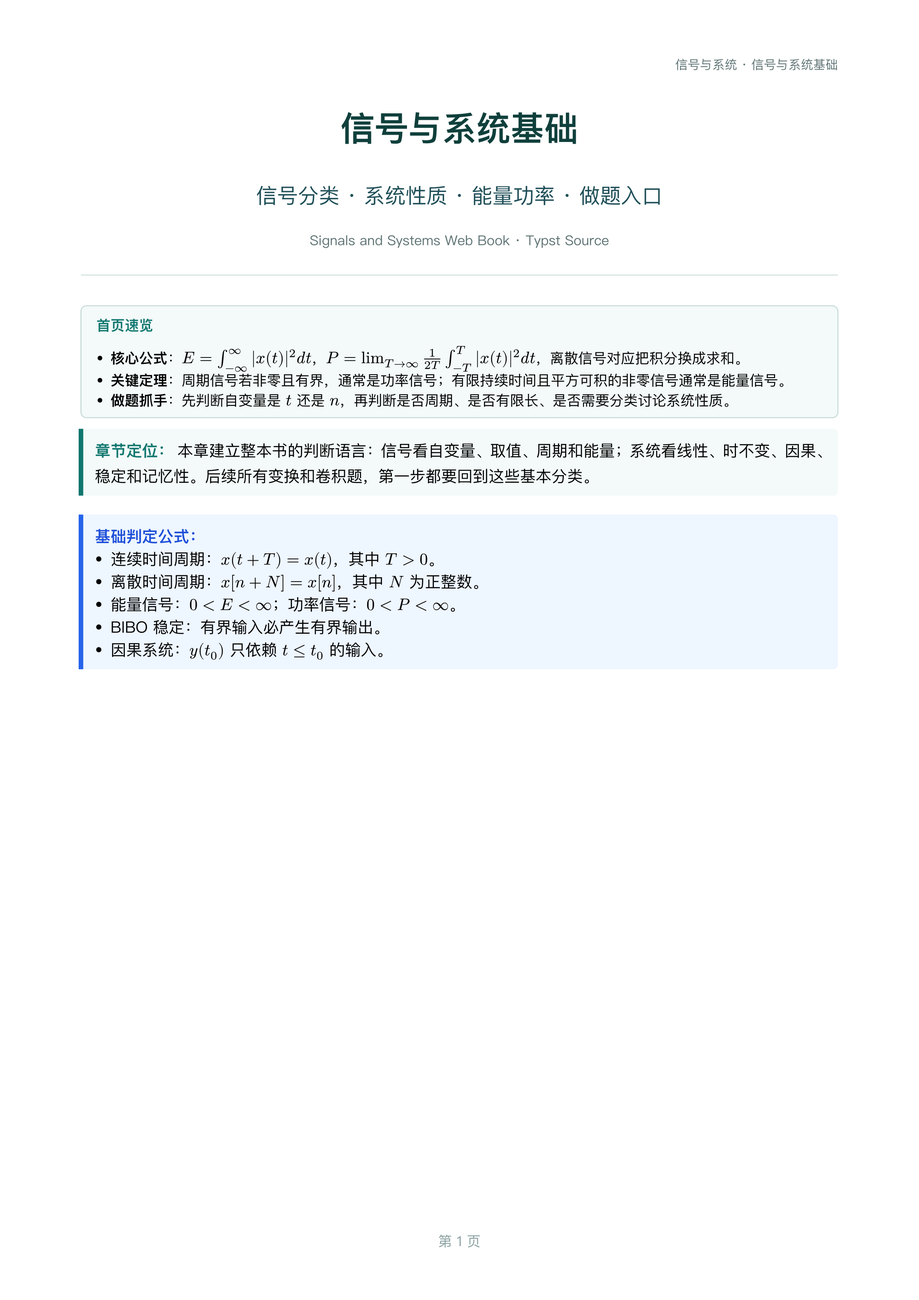
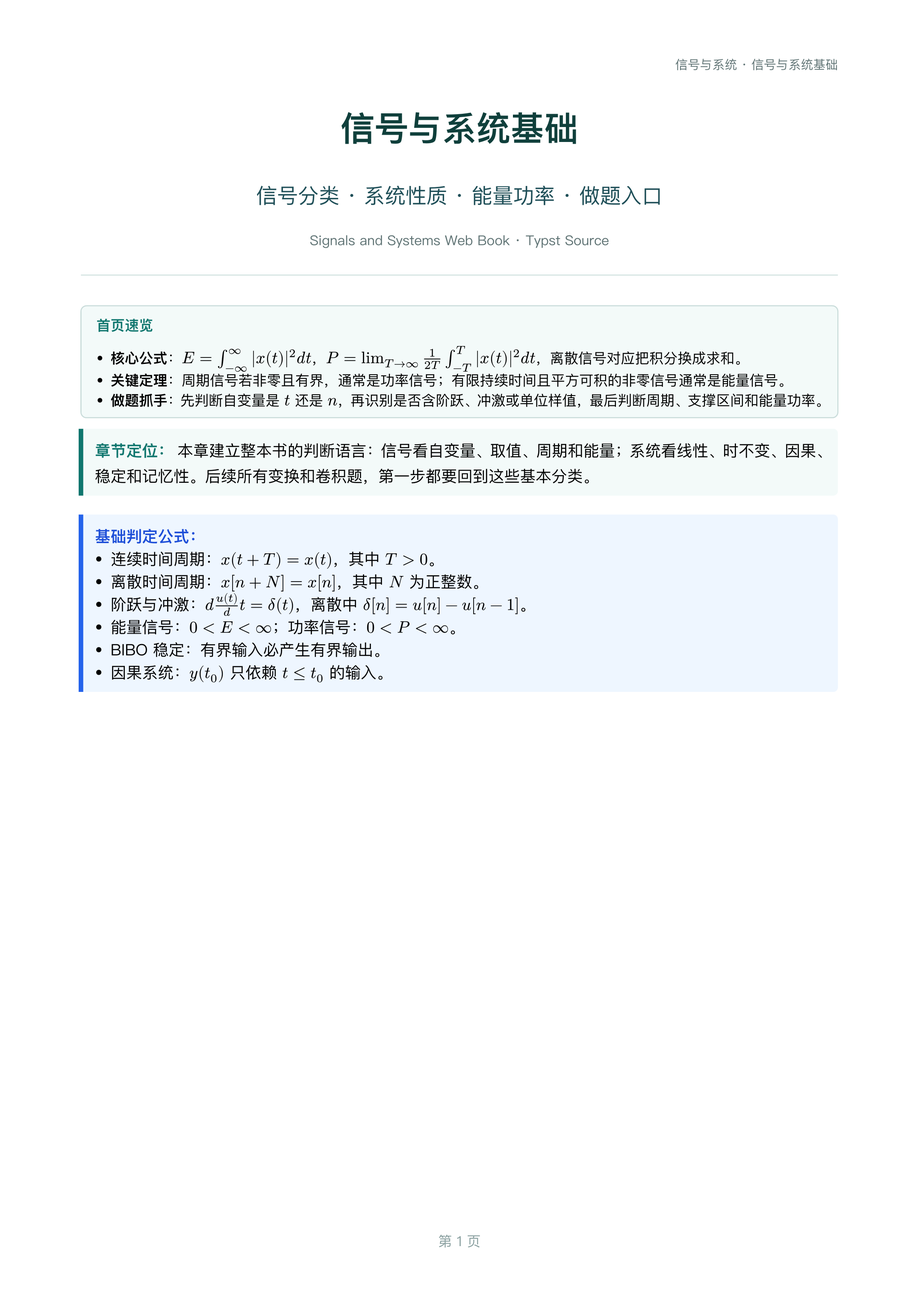
Add step and impulse signal basics

diff --git a/ebook/data.js b/ebook/data.js
@@ -2,10 +2,10 @@
 window.BOOK_MANIFEST = {
   "title": "信号与系统电子书",
   "subtitle": "时域分析 · 频域分析 · 复频域方法 · 典型题型",
-  "generatedAt": "2026-08-08T16:06:19+08:00",
+  "generatedAt": "2026-08-08T16:29:17+08:00",
   "stats": {
     "documents": 12,
-    "pages": 67,
+    "pages": 68,
     "renderDpi": 260,
     "pageRenderer": "typst-direct-webp",
     "pageImageExtension": "webp",
@@ -27,7 +27,7 @@ window.BOOK_MANIFEST = {
           "sourcePath": "typst/Signals and Systems Basics (信号与系统基础).typ",
           "pageImageBase": "./rendered-pages/doc-0541d6dc078b/page-",
           "pageImageExtension": "webp",
-          "pageCount": 8,
+          "pageCount": 9,
           "sections": [
             {
               "id": "doc-0541d6dc078b-s1",
@@ -38,19 +38,19 @@ window.BOOK_MANIFEST = {
             {
               "id": "doc-0541d6dc078b-s2",
               "title": "二、系统性质五连问",
-              "page": 6,
+              "page": 7,
               "level": 1
             },
             {
               "id": "doc-0541d6dc078b-s3",
               "title": "三、能量信号与功率信号",
-              "page": 7,
+              "page": 8,
               "level": 1
             },
             {
               "id": "doc-0541d6dc078b-s4",
               "title": "四、典型例题与经验",
-              "page": 8,
+              "page": 9,
               "level": 1
             }
           ]
@@ -508,7 +508,7 @@ window.BOOK_MANIFEST = {
       "sourcePath": "typst/Signals and Systems Basics (信号与系统基础).typ",
       "pageImageBase": "./rendered-pages/doc-0541d6dc078b/page-",
       "pageImageExtension": "webp",
-      "pageCount": 8,
+      "pageCount": 9,
       "sections": [
         {
           "id": "doc-0541d6dc078b-s1",
@@ -519,19 +519,19 @@ window.BOOK_MANIFEST = {
         {
           "id": "doc-0541d6dc078b-s2",
           "title": "二、系统性质五连问",
-          "page": 6,
+          "page": 7,
           "level": 1
         },
         {
           "id": "doc-0541d6dc078b-s3",
           "title": "三、能量信号与功率信号",
-          "page": 7,
+          "page": 8,
           "level": 1
         },
         {
           "id": "doc-0541d6dc078b-s4",
           "title": "四、典型例题与经验",
-          "page": 8,
+          "page": 9,
           "level": 1
         }
       ]
@@ -966,17 +966,7 @@ window.SEARCH_INDEX = [
     "page": 2,
     "heading": "信号与系统基础",
     "snippet": "一、信号的基本分类 信号是随一个或多个自变量变化的函数。本书主要处理一维信号：连续时间信号 x t 与离散时间信号 x n 。做题时不要只背名称，而要把每个分类放到“定义、性质、图像表达”三个层面一起判断。 columns: 1.2fr, 1.65fr, 2.25fr , align: center, left, left , strok...",
-    "text": "Signals and Systems Basics (信号与系统基础) Signals and Systems Basics 信号与系统基础 基础与时域 信号与系统基础 一、信号的基本分类 信号是随一个或多个自变量变化的函数。本书主要处理一维信号：连续时间信号 x t 与离散时间信号 x n 。做题时不要只背名称，而要把每个分类放到“定义、性质、图像表达”三个层面一起判断。 columns: 1.2fr, 1.65fr, 2.25fr , align: center, left, left , stroke: 0.5pt + rgb , fill: x, y if y 0 rgb else if calc.rem y, 2 0 rgb , 分类维度 , 包含类型 , 先问什么 , 自变量 , 连续时间信号、离散时间信号 , 横轴是连续的 t ，还是只在整数 n 上取值？ , 幅值 , 模拟信号、数字信号 , 纵轴取值是否连续？是否经过量化或编码？ , 确定性 , 确定信号、随机信号 , 给定时刻的取值能否由明确函数唯一确定？ , 取值形式 , 实信号、复信号 , 信号值是实数，还是含幅度和相位的复数？ , 对称性 , 偶信号、奇信号、一般信号 , 关于纵轴镜像是否不变，关于原点旋转是否变号？ , 重复性 , 周期信号、非周期信号 , 能否找到正周期 T 或正整数周期 N ？ , 持续范围 , 时限信号、右边信号、左边信号、双边信号 , 信号在哪些时间区间非零？ , 能量功率 , 能量信号、功率信号、二者都不是 , 平方积分或平方求和是否有限？平均功率是否有限非零？ , 什么时候用 分类题先按维度问问题：横轴、纵轴、确定性、取值、对称性、周期性、支撑区间、能量功率。题目一出现 x n 、 h n 、 y n ，优先使用序列方法；出现 x t 、 h t 、 y t ，优先使用连续时间方法。不要把连续卷积积分和离散卷积和混用。 连续时间信号与离散时间信号 连续时间信号定义在连续自变量上，记为 x t ，其中 t 可以取某个区间内的任意实数。它的图像通常画成一条连续横轴上的曲线，常见例子有 sin omega t 、 e^ -a t u t 、矩形脉冲等。连续时间信号常与微分方程、连续卷积积分、傅里叶变换和拉普拉斯变换配套。 离散时间信号只在整数序号上定义，记为 x n ，其中 n in ZZ 。它的图像不能画成连续曲线，而应画成“茎状图”：每个整数 n 对应一根竖线或一个采样点。常见例子有 a^n u n 、 delta n 、 cos Omega n 。离散时间信号常与差分方程、序列卷积和、Z 变换配套。 columns: 1fr, 1.45fr, 1.7fr, 2fr , align: center, left, left, left , stroke: 0.5pt + rgb , fill: x, y if y 0 rgb else if calc.rem y, 2 0 rgb , 类型 , 严格定义 , 主要性质 , 图像表达 , 连续时间 , 对每个 t in RR 或某连续区间有取值 x t 。 , 可讨论连续性、导数、积分和微分方程；冲激 delta t 是广义函数，不是普通函数。 , 横轴标 t ，通常用平滑曲线、分段曲线、脉冲箭头或阶跃跳变表示。 , 离散时间 , 只在整数 n 上有取值 x n ，相邻样本之间不定义。 , 可讨论序列移位、差分、求和和递推；周期必须是正整数。 , 横轴标 n ，用茎状图或离散圆点表示，不能把点直接连成连续物理曲线。 , 离散时间图像中的相邻点之间没有默认取值。把 x n 画成平滑曲线，往往会误导卷积、周期和 Z 变换判断。 模拟信号与数字信号 模拟信号和数字信号描述的是幅值取值方式，不是单纯描述横轴。模拟信号的幅值在连续集合中取值，图像纵轴可以连续变化；数字信号的幅值被量化到有限或可数集合中，常由二进制码表示。 columns: 1fr, 1.55fr, 1.75fr, 2fr , align: center, left, left, left , stroke: 0.5pt + rgb , fill: x, y if y 0 rgb else if calc.rem y, 2 0 rgb , 类型 , 定义 , 性质 , 图像表达 , 模拟信号 , 幅值连续，可在某一区间内取无限多个值。 , 常用于物理量建模，如电压、声压、位移；抗噪能力依赖后续处理。 , 纵轴连续变化，图中曲线高度不被固定档位限制。 , 数字信号 , 幅值离散，通常由量化级和编码字表示。 , 便于存储、传输和计算；会引入量化误差。 , 图上表现为横轴离散、纵轴也落在若干固定电平上，常画成阶梯或量化样本。 , 判断抓手 采样让时间离散化，量化让幅值离散化，编码把量化值写成码字。连续/离散看横轴，模拟/数字看纵轴。 确定信号与随机信号 确定信号在任一给定时刻的取值由明确表达式或规则唯一确定，例如 x t e^ -t u t 。随机信号的取值含随机性，通常记为随机过程 X t 或 X n ，需要用均值、方差、自相关函数和概率分布描述。 columns: 1fr, 1.7fr, 1.7fr, 1.9fr , align: center, left, left, left , stroke: 0.5pt + rgb , fill: x, y if y 0 rgb else if calc.rem y, 2 0 rgb , 类型 , 定义 , 性质 , 图像表达 , 确定信号 , 函数式、波形或序列规则已完全给定。 , 重复观察得到同一波形；可直接计算变换、卷积和能量。 , 一张图就能表示完整信号，例如指数衰减曲线或固定序列。 , 随机信号 , 每个时刻的取值是随机变量，整体是一族样本函数。 , 单条波形不足以描述全部规律；常看 E X t 、 R X tau 等统计量。 , 图像通常画多条可能样本轨道，或画均值曲线加方差范围。 , 随机信号不能只靠一条样本波形下结论。题目若出现“随机过程、噪声、均值、自相关、功率谱密度”，就要转入统计描述。 周期信号与非周期信号 连续时间周期信号满足 x t+T x t ，其中 T 0 ；离散时间周期信号满足 x n+N x n ，其中 N 必须是正整数。最小的正周期称为基波周期。 columns: 1fr, 1.7fr, 1.7fr, 1.9fr , align: center, left, left, left , stroke: 0.5pt + rgb , fill: x, y if y 0 rgb else if calc.rem y, 2 0 rgb , 类型 , 定义 , 性质 , 图像表达 , 周期信号 , 存在正周期，使信号平移一个周期后完全重合。 , 非零有界周期信号通常是功率信号；傅里叶级数特别适用。 , 只需画一个周期，再用省略号表示左右重复。 , 非周期信号 , 不存在满足重复条件的正周期。 , 不能直接用一个周期求平均功率；常转向傅里叶变换或拉普拉斯变换。 , 波形不按固定长度重复，通常完整画出主要支撑或趋势。 , 离散正弦 cos Omega n 是否周期，要检查 Omega/ 2 pi 是否为有理数；若 Omega/ 2 pi p/q 且 p,q 互素，则周期可取 N q 或其整数倍。 实信号、复信号、奇偶性与后续频域的关系 实信号/复信号、奇信号/偶信号不是孤立定义，而是傅里叶分析的前置工具。实信号的频谱通常具有共轭对称性；偶信号更偏向余弦项，奇信号更偏向正弦项。若 x t 为实偶信号，则傅里叶变换通常也是实偶函数；若 x t 为实奇信号，则傅里叶变换通常是纯虚奇函数。 这类性质的价值在于少算积分。遇到傅里叶级数或傅里叶变换题，先判断信号是否实、偶、奇、半波对称，再决定哪些系数或频谱部分可以直接为零。 columns: 1fr, 1.8fr, 1.65fr, 1.9fr , align: center, left, left, left , stroke: 0.5pt + rgb , fill: x, y if y 0 rgb else if calc.rem y, 2 0 rgb , 类型 , 定义 , 性质 , 图像表达 , 实信号 , 所有取值均为实数。 , 频谱常具有共轭对称性，便于减少计算量。 , 一条实值曲线或茎状图即可表示。 , 复信号 , 取值为复数，可写成 x t x R t +j x I t 。 , 能量和功率用 abs x ^2 x x^ ；常表示幅度和相位。 , 通常画两幅图：实部/虚部，或幅度 abs x / 相位 angle x 。 , 偶信号 , x -t x t 或 x -n x n 。 , 关于纵轴对称；傅里叶分析中常只剩余弦型成分。 , 右半边镜像到左半边，纵轴两侧高度相同。 , 奇信号 , x -t -x t 或 x -n -x n 。 , 关于原点反对称，且通常有 x 0 0 或 x 0 0 。 , 右半边绕原点旋转 180 degree 后得到左半边。 , 任意信号都可分解成偶部和奇部： x e t 1/2 x t +x -t x o t 1/2 x t -x -t 离散时间只需把 t 换成 n 。这组分解在积分、傅里叶系数和对称波形题中非常常用。 时限信号、右边信号、左边信号与双边信号 按非零范围分类时，重点看信号支撑区间。时限信号只在有限区间内非零；右边信号在某个起点之后可能非零；左边信号在某个终点之前可能非零；双边信号在正负两个方向都可能非零。 columns: 1fr, 1.7fr, 1.7fr, 1.9fr , align: center, left, left, left , stroke: 0.5pt + rgb , fill: x, y if y 0 rgb else if calc.rem y, 2 0 rgb , 类型 , 定义 , 性质 , 图像表达 , 时限信号 , 存在有限区间，使区间外 x t 0 或 x n 0 。 , 若幅值有限，通常是能量信号；卷积图解常用。 , 只在有限宽度内有波形，两侧为零。 , 右边信号 , 存在 t 0 或 n 0 ，使左侧全为零。 , 常与因果信号、单边拉普拉斯变换和单边 Z 变换相关。 , 从某个起点开始向右延伸，左侧贴在零轴上。 , 左边信号 , 存在 t 0 或 n 0 ，使右侧全为零。 , 常对应反因果或左边序列；Z 变换 ROC 常在极点内侧。 , 波形向左延伸，右侧从某点后为零。 , 双边信号 , 正负时间方向都可能非零。 , 分析 ROC、收敛性和稳定性时更容易出现多种情况。 , 横轴两侧都有波形，不能只画单侧。 , 图像表达速记 连续时间画曲线，离散时间画茎状点；周期信号画一个周期再重复；偶信号画镜像，奇信号画原点反对称；右边信号左侧为零，左边信号右侧为零；复信号至少要说明实部/虚部或幅度/相位。 常见三角公式为什么放在第一章 常见三角公式需要放在基础部分理解，因为后面的傅里叶级数、调制解调和正弦稳态响应都要频繁使用“和差化积、积化和差”。例如调制中最常用的是 cos alpha cos beta 1/2 cos alpha+beta +cos alpha-beta 它说明两个余弦相乘会产生和频与差频，这正是频谱搬移的时域来源。正弦稳态响应中也常把输入写成复指数形式： cos omega t + phi 1/2 e^ j omega t+phi + 1/2 e^ -j omega t+phi 这样通过 LTI 系统时，每个复指数分量只需乘以对应频率响应。复习时不必把所有三角公式孤立背诵，而要知道它们出现在哪里：乘法对应调制，和差角对应相位合成，欧拉公式对应频域分析入口。 三角公式使用场景 看到“两个正弦/余弦相乘”，优先想到积化和差；看到“同频正弦叠加”，优先合成为一个同频正弦；看到“系统对正弦输入的响应”，优先改写成复指数。"
-  },
-  {
-    "id": "doc-0541d6dc078b-p6",
-    "docId": "doc-0541d6dc078b",
-    "title": "Signals and Systems Basics (信号与系统基础)",
-    "category": "基础与时域",
-    "page": 6,
-    "heading": "信号与系统基础",
-    "snippet": "二、系统性质五连问 系统把输入映射为输出，可写为 y T x 。考试中最常见的性质判断是线性、时不变、因果、稳定和有无记忆。 columns: 1.1fr, 2fr, 2.4fr , align: center, left, left , stroke: 0.5pt + rgb , fill: x, y if y 0 rgb else i...",
-    "text": "Signals and Systems Basics (信号与系统基础) Signals and Systems Basics 信号与系统基础 基础与时域 信号与系统基础 二、系统性质五连问 系统把输入映射为输出，可写为 y T x 。考试中最常见的性质判断是线性、时不变、因果、稳定和有无记忆。 columns: 1.1fr, 2fr, 2.4fr , align: center, left, left , stroke: 0.5pt + rgb , fill: x, y if y 0 rgb else if calc.rem y, 2 0 rgb , 性质 , 判定方式 , 常见坑 , 线性 , T a x 1 + b x 2 a T x 1 +b T x 2 , 常数项、平方、绝对值、乘输入自身通常破坏线性。 , 时不变 , 输入延时，输出也只延时 , 显含 t 或 n 的系数通常破坏时不变。 , 因果 , 现在输出不依赖未来输入 , x t+1 、 x n+2 这类超前项通常非因果。 , 稳定 , 有界输入得到有界输出 , 积分器、累加器通常要警惕不稳定。 , 无记忆 , 输出只依赖同一时刻输入 , 延时、微分、积分、卷积都说明有记忆。 , 可逆系统：为什么要单独判断 可逆系统不是线性、时不变、因果、稳定的附属结论。系统可逆的核心是：不同输入不能被系统压成同一个输出。若存在反系统 T^ -1 ，使得 T^ -1 T x x 则原系统可逆。判断时最稳的做法是寻找“信息是否丢失”。例如 y t x t-t 0 只是延时，理论上可通过提前 t 0 还原，所以可逆； y t x^2 t 会丢失符号， x t 与 -x t 得到同一输出，通常不可逆； y t abs x t 也会丢失符号；积分器若没有初始条件，会丢失常数项信息，也要警惕不可逆。 判断抓手 可逆性题先问一句：能不能从 y 唯一恢复 x ？如果输出表达式中出现平方、绝对值、取样丢点、积分丢常数、限幅饱和，优先怀疑不可逆。"
+    "text": "Signals and Systems Basics (信号与系统基础) Signals and Systems Basics 信号与系统基础 基础与时域 信号与系统基础 一、信号的基本分类 信号是随一个或多个自变量变化的函数。本书主要处理一维信号：连续时间信号 x t 与离散时间信号 x n 。做题时不要只背名称，而要把每个分类放到“定义、性质、图像表达”三个层面一起判断。 columns: 1.2fr, 1.65fr, 2.25fr , align: center, left, left , stroke: 0.5pt + rgb , fill: x, y if y 0 rgb else if calc.rem y, 2 0 rgb , 分类维度 , 包含类型 , 先问什么 , 自变量 , 连续时间信号、离散时间信号 , 横轴是连续的 t ，还是只在整数 n 上取值？ , 幅值 , 模拟信号、数字信号 , 纵轴取值是否连续？是否经过量化或编码？ , 确定性 , 确定信号、随机信号 , 给定时刻的取值能否由明确函数唯一确定？ , 取值形式 , 实信号、复信号 , 信号值是实数，还是含幅度和相位的复数？ , 基本波形 , 阶跃信号、冲激信号、单位样值、斜变信号 , 它是在表示开关、瞬时作用、抽样基元，还是线性增长？ , 对称性 , 偶信号、奇信号、一般信号 , 关于纵轴镜像是否不变，关于原点旋转是否变号？ , 重复性 , 周期信号、非周期信号 , 能否找到正周期 T 或正整数周期 N ？ , 持续范围 , 时限信号、右边信号、左边信号、双边信号 , 信号在哪些时间区间非零？ , 能量功率 , 能量信号、功率信号、二者都不是 , 平方积分或平方求和是否有限？平均功率是否有限非零？ , 什么时候用 分类题先按维度问问题：横轴、纵轴、确定性、取值、对称性、周期性、支撑区间、能量功率。题目一出现 x n 、 h n 、 y n ，优先使用序列方法；出现 x t 、 h t 、 y t ，优先使用连续时间方法。不要把连续卷积积分和离散卷积和混用。 连续时间信号与离散时间信号 连续时间信号定义在连续自变量上，记为 x t ，其中 t 可以取某个区间内的任意实数。它的图像通常画成一条连续横轴上的曲线，常见例子有 sin omega t 、 e^ -a t u t 、矩形脉冲等。连续时间信号常与微分方程、连续卷积积分、傅里叶变换和拉普拉斯变换配套。 离散时间信号只在整数序号上定义，记为 x n ，其中 n in ZZ 。它的图像不能画成连续曲线，而应画成“茎状图”：每个整数 n 对应一根竖线或一个采样点。常见例子有 a^n u n 、 delta n 、 cos Omega n 。离散时间信号常与差分方程、序列卷积和、Z 变换配套。 columns: 1fr, 1.45fr, 1.7fr, 2fr , align: center, left, left, left , stroke: 0.5pt + rgb , fill: x, y if y 0 rgb else if calc.rem y, 2 0 rgb , 类型 , 严格定义 , 主要性质 , 图像表达 , 连续时间 , 对每个 t in RR 或某连续区间有取值 x t 。 , 可讨论连续性、导数、积分和微分方程；冲激 delta t 是广义函数，不是普通函数。 , 横轴标 t ，通常用平滑曲线、分段曲线、脉冲箭头或阶跃跳变表示。 , 离散时间 , 只在整数 n 上有取值 x n ，相邻样本之间不定义。 , 可讨论序列移位、差分、求和和递推；周期必须是正整数。 , 横轴标 n ，用茎状图或离散圆点表示，不能把点直接连成连续物理曲线。 , 离散时间图像中的相邻点之间没有默认取值。把 x n 画成平滑曲线，往往会误导卷积、周期和 Z 变换判断。 典型基本信号：阶跃、冲激与单位样值 阶跃和冲激既是基本信号类型，也是后续系统分析的“语言”。阶跃信号表示从某个时刻开始打开；冲激信号表示瞬时集中作用；离散时间中与冲激对应的是单位样值序列 delta n 。它们不只是例子，而是构造分段信号、描述系统响应和进行卷积计算的核心对象。 columns: 1fr, 1.8fr, 1.9fr, 2fr , align: center, left, left, left , stroke: 0.5pt + rgb , fill: x, y if y 0 rgb else if calc.rem y, 2 0 rgb , 信号类型 , 定义 , 关键性质 , 图像表达 , 单位阶跃 u t , t 0 时为 0 ， t 0 时为 1 ， t 0 的取值按约定处理。 , 表示开关； u t-a 表示从 t a 开始打开； u t-a -u t-b 可表示区间门。 , 在 t 0 处从 0 跳到 1 的阶梯图，端点常用空心/实心点说明约定。 , 单位冲激 delta t , 广义函数，满足 integral -infinity ^infinity delta t d t 1 。 , 抽样性质： integral x t delta t-t 0 d t x t 0 ；且 d u t /d t delta t 。 , 不用普通尖峰面积理解，图上画位于 t 0 的箭头，箭头旁标强度 1 。 , 单位样值 delta n , n 0 时为 1 ，其余整数点为 0 。 , 离散序列的基元： x n sum k -infinity ^infinity x k delta n-k 。 , 茎状图中只有 n 0 处一根高度为 1 的竖线。 , 离散阶跃 u n , n 0 时为 1 ， n 0 时为 0 。 , 与单位样值互为差分/累加： delta n u n -u n-1 ， u n sum k -infinity ^n delta k 。 , n 0 的样值为 0 ，从 n 0 起每个整数点高度为 1 。 , 斜变信号 r t , 常写为 r t t u t 。 , 斜变的一阶导数是阶跃，二阶导数是冲激；适合表示线性增长输入。 , 从原点向右按直线增长，左侧为零。 , 识别经验 看到“开关、接入、从某时刻开始”，优先想到阶跃；看到“瞬时作用、面积、抽样、冲激响应”，优先想到冲激；看到离散序列的单点基元，优先想到 delta n 。含阶跃的分段波形常先写成门函数，含冲激的积分先用抽样性质。 连续时间冲激 delta t 不是普通函数，不能把“高度无穷”当作计算规则；真正可用的是面积、抽样性质和尺度因子。离散时间的 delta n 则是普通序列，只有 n 0 处取 1 。 模拟信号与数字信号 模拟信号和数字信号描述的是幅值取值方式，不是单纯描述横轴。模拟信号的幅值在连续集合中取值，图像纵轴可以连续变化；数字信号的幅值被量化到有限或可数集合中，常由二进制码表示。 columns: 1fr, 1.55fr, 1.75fr, 2fr , align: center, left, left, left , stroke: 0.5pt + rgb , fill: x, y if y 0 rgb else if calc.rem y, 2 0 rgb , 类型 , 定义 , 性质 , 图像表达 , 模拟信号 , 幅值连续，可在某一区间内取无限多个值。 , 常用于物理量建模，如电压、声压、位移；抗噪能力依赖后续处理。 , 纵轴连续变化，图中曲线高度不被固定档位限制。 , 数字信号 , 幅值离散，通常由量化级和编码字表示。 , 便于存储、传输和计算；会引入量化误差。 , 图上表现为横轴离散、纵轴也落在若干固定电平上，常画成阶梯或量化样本。 , 判断抓手 采样让时间离散化，量化让幅值离散化，编码把量化值写成码字。连续/离散看横轴，模拟/数字看纵轴。 确定信号与随机信号 确定信号在任一给定时刻的取值由明确表达式或规则唯一确定，例如 x t e^ -t u t 。随机信号的取值含随机性，通常记为随机过程 X t 或 X n ，需要用均值、方差、自相关函数和概率分布描述。 columns: 1fr, 1.7fr, 1.7fr, 1.9fr , align: center, left, left, left , stroke: 0.5pt + rgb , fill: x, y if y 0 rgb else if calc.rem y, 2 0 rgb , 类型 , 定义 , 性质 , 图像表达 , 确定信号 , 函数式、波形或序列规则已完全给定。 , 重复观察得到同一波形；可直接计算变换、卷积和能量。 , 一张图就能表示完整信号，例如指数衰减曲线或固定序列。 , 随机信号 , 每个时刻的取值是随机变量，整体是一族样本函数。 , 单条波形不足以描述全部规律；常看 E X t 、 R X tau 等统计量。 , 图像通常画多条可能样本轨道，或画均值曲线加方差范围。 , 随机信号不能只靠一条样本波形下结论。题目若出现“随机过程、噪声、均值、自相关、功率谱密度”，就要转入统计描述。 周期信号与非周期信号 连续时间周期信号满足 x t+T x t ，其中 T 0 ；离散时间周期信号满足 x n+N x n ，其中 N 必须是正整数。最小的正周期称为基波周期。 columns: 1fr, 1.7fr, 1.7fr, 1.9fr , align: center, left, left, left , stroke: 0.5pt + rgb , fill: x, y if y 0 rgb else if calc.rem y, 2 0 rgb , 类型 , 定义 , 性质 , 图像表达 , 周期信号 , 存在正周期，使信号平移一个周期后完全重合。 , 非零有界周期信号通常是功率信号；傅里叶级数特别适用。 , 只需画一个周期，再用省略号表示左右重复。 , 非周期信号 , 不存在满足重复条件的正周期。 , 不能直接用一个周期求平均功率；常转向傅里叶变换或拉普拉斯变换。 , 波形不按固定长度重复，通常完整画出主要支撑或趋势。 , 离散正弦 cos Omega n 是否周期，要检查 Omega/ 2 pi 是否为有理数；若 Omega/ 2 pi p/q 且 p,q 互素，则周期可取 N q 或其整数倍。 实信号、复信号、奇偶性与后续频域的关系 实信号/复信号、奇信号/偶信号不是孤立定义，而是傅里叶分析的前置工具。实信号的频谱通常具有共轭对称性；偶信号更偏向余弦项，奇信号更偏向正弦项。若 x t 为实偶信号，则傅里叶变换通常也是实偶函数；若 x t 为实奇信号，则傅里叶变换通常是纯虚奇函数。 这类性质的价值在于少算积分。遇到傅里叶级数或傅里叶变换题，先判断信号是否实、偶、奇、半波对称，再决定哪些系数或频谱部分可以直接为零。 columns: 1fr, 1.8fr, 1.65fr, 1.9fr , align: center, left, left, left , stroke: 0.5pt + rgb , fill: x, y if y 0 rgb else if calc.rem y, 2 0 rgb , 类型 , 定义 , 性质 , 图像表达 , 实信号 , 所有取值均为实数。 , 频谱常具有共轭对称性，便于减少计算量。 , 一条实值曲线或茎状图即可表示。 , 复信号 , 取值为复数，可写成 x t x R t +j x I t 。 , 能量和功率用 abs x ^2 x x^ ；常表示幅度和相位。 , 通常画两幅图：实部/虚部，或幅度 abs x / 相位 angle x 。 , 偶信号 , x -t x t 或 x -n x n 。 , 关于纵轴对称；傅里叶分析中常只剩余弦型成分。 , 右半边镜像到左半边，纵轴两侧高度相同。 , 奇信号 , x -t -x t 或 x -n -x n 。 , 关于原点反对称，且通常有 x 0 0 或 x 0 0 。 , 右半边绕原点旋转 180 degree 后得到左半边。 , 任意信号都可分解成偶部和奇部： x e t 1/2 x t +x -t x o t 1/2 x t -x -t 离散时间只需把 t 换成 n 。这组分解在积分、傅里叶系数和对称波形题中非常常用。 时限信号、右边信号、左边信号与双边信号 按非零范围分类时，重点看信号支撑区间。时限信号只在有限区间内非零；右边信号在某个起点之后可能非零；左边信号在某个终点之前可能非零；双边信号在正负两个方向都可能非零。 columns: 1fr, 1.7fr, 1.7fr, 1.9fr , align: center, left, left, left , stroke: 0.5pt + rgb , fill: x, y if y 0 rgb else if calc.rem y, 2 0 rgb , 类型 , 定义 , 性质 , 图像表达 , 时限信号 , 存在有限区间，使区间外 x t 0 或 x n 0 。 , 若幅值有限，通常是能量信号；卷积图解常用。 , 只在有限宽度内有波形，两侧为零。 , 右边信号 , 存在 t 0 或 n 0 ，使左侧全为零。 , 常与因果信号、单边拉普拉斯变换和单边 Z 变换相关。 , 从某个起点开始向右延伸，左侧贴在零轴上。 , 左边信号 , 存在 t 0 或 n 0 ，使右侧全为零。 , 常对应反因果或左边序列；Z 变换 ROC 常在极点内侧。 , 波形向左延伸，右侧从某点后为零。 , 双边信号 , 正负时间方向都可能非零。 , 分析 ROC、收敛性和稳定性时更容易出现多种情况。 , 横轴两侧都有波形，不能只画单侧。 , 图像表达速记 连续时间画曲线，离散时间画茎状点；周期信号画一个周期再重复；偶信号画镜像，奇信号画原点反对称；右边信号左侧为零，左边信号右侧为零；复信号至少要说明实部/虚部或幅度/相位。 常见三角公式为什么放在第一章 常见三角公式需要放在基础部分理解，因为后面的傅里叶级数、调制解调和正弦稳态响应都要频繁使用“和差化积、积化和差”。例如调制中最常用的是 cos alpha cos beta 1/2 cos alpha+beta +cos alpha-beta 它说明两个余弦相乘会产生和频与差频，这正是频谱搬移的时域来源。正弦稳态响应中也常把输入写成复指数形式： cos omega t + phi 1/2 e^ j omega t+phi + 1/2 e^ -j omega t+phi 这样通过 LTI 系统时，每个复指数分量只需乘以对应频率响应。复习时不必把所有三角公式孤立背诵，而要知道它们出现在哪里：乘法对应调制，和差角对应相位合成，欧拉公式对应频域分析入口。 三角公式使用场景 看到“两个正弦/余弦相乘”，优先想到积化和差；看到“同频正弦叠加”，优先合成为一个同频正弦；看到“系统对正弦输入的响应”，优先改写成复指数。"
   },
   {
     "id": "doc-0541d6dc078b-p7",
@@ -985,8 +975,8 @@ window.SEARCH_INDEX = [
     "category": "基础与时域",
     "page": 7,
     "heading": "信号与系统基础",
-    "snippet": "三、能量信号与功率信号 连续时间能量和平均功率定义为 E integral -infinity ^infinity abs x t ^2 d t P lim T- infinity 1/ 2T integral -T ^T abs x t ^2 d t 离散时间对应为 E sum n -infinity ^infinity abs x n...",
-    "text": "Signals and Systems Basics (信号与系统基础) Signals and Systems Basics 信号与系统基础 基础与时域 信号与系统基础 三、能量信号与功率信号 连续时间能量和平均功率定义为 E integral -infinity ^infinity abs x t ^2 d t P lim T- infinity 1/ 2T integral -T ^T abs x t ^2 d t 离散时间对应为 E sum n -infinity ^infinity abs x n ^2 P lim N- infinity 1/ 2N+1 sum n -N ^N abs x n ^2 同一个非零信号不能同时是能量信号和功率信号；但也可能二者都不是，例如随时间增长的无界信号。 能量信号和功率信号的细分判断 能量信号和功率信号需要细分判断，因为题目经常通过边界情况设坑。有限时宽且幅度有限的非零信号通常是能量信号；非零周期信号通常是功率信号；指数衰减信号可能是能量信号；指数增长信号往往既不是能量信号也不是功率信号。 对复信号必须用模平方： abs x t ^2 x t x^ t 不能只平方实部。对离散信号，判断周期时还要确认周期是正整数；例如 cos Omega n 周期存在的条件是 Omega/ 2 pi 为有理数。若周期不存在，就不能直接套“周期信号求一个周期平均功率”的公式。 能量/功率题最常见的错法是先入为主：看到“周期”忘记检查是否非零有界，看到“离散正弦”忘记检查整数周期，看到复指数忘记取模平方。"
+    "snippet": "二、系统性质五连问 系统把输入映射为输出，可写为 y T x 。考试中最常见的性质判断是线性、时不变、因果、稳定和有无记忆。 columns: 1.1fr, 2fr, 2.4fr , align: center, left, left , stroke: 0.5pt + rgb , fill: x, y if y 0 rgb else i...",
+    "text": "Signals and Systems Basics (信号与系统基础) Signals and Systems Basics 信号与系统基础 基础与时域 信号与系统基础 二、系统性质五连问 系统把输入映射为输出，可写为 y T x 。考试中最常见的性质判断是线性、时不变、因果、稳定和有无记忆。 columns: 1.1fr, 2fr, 2.4fr , align: center, left, left , stroke: 0.5pt + rgb , fill: x, y if y 0 rgb else if calc.rem y, 2 0 rgb , 性质 , 判定方式 , 常见坑 , 线性 , T a x 1 + b x 2 a T x 1 +b T x 2 , 常数项、平方、绝对值、乘输入自身通常破坏线性。 , 时不变 , 输入延时，输出也只延时 , 显含 t 或 n 的系数通常破坏时不变。 , 因果 , 现在输出不依赖未来输入 , x t+1 、 x n+2 这类超前项通常非因果。 , 稳定 , 有界输入得到有界输出 , 积分器、累加器通常要警惕不稳定。 , 无记忆 , 输出只依赖同一时刻输入 , 延时、微分、积分、卷积都说明有记忆。 , 可逆系统：为什么要单独判断 可逆系统不是线性、时不变、因果、稳定的附属结论。系统可逆的核心是：不同输入不能被系统压成同一个输出。若存在反系统 T^ -1 ，使得 T^ -1 T x x 则原系统可逆。判断时最稳的做法是寻找“信息是否丢失”。例如 y t x t-t 0 只是延时，理论上可通过提前 t 0 还原，所以可逆； y t x^2 t 会丢失符号， x t 与 -x t 得到同一输出，通常不可逆； y t abs x t 也会丢失符号；积分器若没有初始条件，会丢失常数项信息，也要警惕不可逆。 判断抓手 可逆性题先问一句：能不能从 y 唯一恢复 x ？如果输出表达式中出现平方、绝对值、取样丢点、积分丢常数、限幅饱和，优先怀疑不可逆。"
   },
   {
     "id": "doc-0541d6dc078b-p8",
@@ -994,6 +984,16 @@ window.SEARCH_INDEX = [
     "title": "Signals and Systems Basics (信号与系统基础)",
     "category": "基础与时域",
     "page": 8,
+    "heading": "信号与系统基础",
+    "snippet": "三、能量信号与功率信号 连续时间能量和平均功率定义为 E integral -infinity ^infinity abs x t ^2 d t P lim T- infinity 1/ 2T integral -T ^T abs x t ^2 d t 离散时间对应为 E sum n -infinity ^infinity abs x n...",
+    "text": "Signals and Systems Basics (信号与系统基础) Signals and Systems Basics 信号与系统基础 基础与时域 信号与系统基础 三、能量信号与功率信号 连续时间能量和平均功率定义为 E integral -infinity ^infinity abs x t ^2 d t P lim T- infinity 1/ 2T integral -T ^T abs x t ^2 d t 离散时间对应为 E sum n -infinity ^infinity abs x n ^2 P lim N- infinity 1/ 2N+1 sum n -N ^N abs x n ^2 同一个非零信号不能同时是能量信号和功率信号；但也可能二者都不是，例如随时间增长的无界信号。 能量信号和功率信号的细分判断 能量信号和功率信号需要细分判断，因为题目经常通过边界情况设坑。有限时宽且幅度有限的非零信号通常是能量信号；非零周期信号通常是功率信号；指数衰减信号可能是能量信号；指数增长信号往往既不是能量信号也不是功率信号。 对复信号必须用模平方： abs x t ^2 x t x^ t 不能只平方实部。对离散信号，判断周期时还要确认周期是正整数；例如 cos Omega n 周期存在的条件是 Omega/ 2 pi 为有理数。若周期不存在，就不能直接套“周期信号求一个周期平均功率”的公式。 能量/功率题最常见的错法是先入为主：看到“周期”忘记检查是否非零有界，看到“离散正弦”忘记检查整数周期，看到复指数忘记取模平方。"
+  },
+  {
+    "id": "doc-0541d6dc078b-p9",
+    "docId": "doc-0541d6dc078b",
+    "title": "Signals and Systems Basics (信号与系统基础)",
+    "category": "基础与时域",
+    "page": 9,
     "heading": "信号与系统基础",
     "snippet": "四、典型例题与经验 例题：判断系统 y t t x t +2 的性质 - 考查内容 ：线性、时不变和因果性。 - 已知条件分析 ：输出只依赖 x t ，但含显式时间系数 t 和常数项 2 。 - 可用方法与不可用方法 ：可用定义代入；不可只看“没有延时”就说系统性质完整。 - 详细解答过程 ：常数项 2 使零输入时输出不为零，因此非线性；...",
     "text": "Signals and Systems Basics (信号与系统基础) Signals and Systems Basics 信号与系统基础 基础与时域 信号与系统基础 四、典型例题与经验 例题：判断系统 y t t x t +2 的性质 - 考查内容 ：线性、时不变和因果性。 - 已知条件分析 ：输出只依赖 x t ，但含显式时间系数 t 和常数项 2 。 - 可用方法与不可用方法 ：可用定义代入；不可只看“没有延时”就说系统性质完整。 - 详细解答过程 ：常数项 2 使零输入时输出不为零，因此非线性；输入延时后得到 t x t-t 0 +2 ，输出延时应为 t-t 0 x t-t 0 +2 ，二者不同，因此时变；输出不依赖未来输入，因此因果。 - 总结与易错点 ：性质判断要逐项做，不要用一个性质替代另一个性质。 做题经验 系统性质题按“线性看叠加，时不变看移位，因果看未来，稳定看有界，记忆看同一时刻”的顺序写，最不容易漏项。"

diff --git a/ebook/sw.js b/ebook/sw.js
@@ -1,4 +1,4 @@
-const CACHE_VERSION = "20260808-signals-systems-v7";
+const CACHE_VERSION = "20260808-signals-systems-v8";
 const SHELL_CACHE = `signals-systems-ebook-shell-${CACHE_VERSION}`;
 const PAGE_CACHE = `signals-systems-ebook-pages-${CACHE_VERSION}`;
 const ACTIVE_CACHES = new Set([SHELL_CACHE, PAGE_CACHE]);
@@ -6,9 +6,9 @@ const ACTIVE_CACHES = new Set([SHELL_CACHE, PAGE_CACHE]);
 const SHELL_ASSETS = [
   "./",
   "./index.html",
-  "./style.css?v=20260808-signals-systems-v7",
-  "./data.js?v=20260808-signals-systems-v7",
-  "./app.js?v=20260808-signals-systems-v7",
+  "./style.css?v=20260808-signals-systems-v8",
+  "./data.js?v=20260808-signals-systems-v8",
+  "./app.js?v=20260808-signals-systems-v8",
 ];
 
 self.addEventListener("install", (event) => {

diff --git a/ebook/index.html b/ebook/index.html
@@ -4,7 +4,7 @@
     <meta charset="utf-8" />
     <meta name="viewport" content="width=device-width, initial-scale=1" />
     <title>信号与系统电子书</title>
-    <link rel="stylesheet" href="./style.css?v=20260808-signals-systems-v7" />
+    <link rel="stylesheet" href="./style.css?v=20260808-signals-systems-v8" />
   </head>
   <body>
     <div class="app-shell">
@@ -54,7 +54,7 @@
       </main>
     </div>
 
-    <script src="./data.js?v=20260808-signals-systems-v7"></script>
-    <script src="./app.js?v=20260808-signals-systems-v7" defer></script>
+    <script src="./data.js?v=20260808-signals-systems-v8"></script>
+    <script src="./app.js?v=20260808-signals-systems-v8" defer></script>
   </body>
 </html>

diff --git a/ebook/app.js b/ebook/app.js
@@ -10,7 +10,7 @@ const PAGE_OBSERVER_MARGIN = "900px 0px";
 const BACKGROUND_PRELOAD_START_DELAY_MS = 1800;
 const BACKGROUND_PRELOAD_BATCH_DELAY_MS = 320;
 const BACKGROUND_PRELOAD_BATCH_SIZE = 2;
-const APP_VERSION = "20260808-signals-systems-v7";
+const APP_VERSION = "20260808-signals-systems-v8";
 const SERVICE_WORKER_FILE = "./sw.js";
 const BOOK_RENDER_ID = "__full_book__";
 

diff --git a/ebook/README.md b/ebook/README.md
@@ -20,9 +20,9 @@ python3 ebook/scripts/build_index.py
 
 ## 当前版本
 
-- 缓存版本：`20260808-signals-systems-v7`
-- 内容规模：12 个章节，67 页，50 条搜索记录。
-- 最近更新：`Signals and Systems Basics (信号与系统基础)` 中“信号的基本分类”已补充各类信号的定义、性质和图像表达。
+- 缓存版本：`20260808-signals-systems-v8`
+- 内容规模：12 个章节，68 页，50 条搜索记录。
+- 最近更新：`Signals and Systems Basics (信号与系统基础)` 中“信号的基本分类”已补充阶跃、冲激、单位样值、离散阶跃和斜变信号的定义、性质和图像表达。
 
 ## 输出文件
 

diff --git a/README.md b/README.md
@@ -40,6 +40,6 @@ node ebook/tests/test_app_performance.js
 
 ## 当前版本
 
-- 缓存版本：`20260808-signals-systems-v7`
-- 内容规模：12 个章节，67 页，50 条搜索记录。
-- 更新内容：扩展“信号的基本分类”，补充各类信号的定义、性质和图像表达。
+- 缓存版本：`20260808-signals-systems-v8`
+- 内容规模：12 个章节，68 页，50 条搜索记录。
+- 更新内容：扩展“信号的基本分类”，补充阶跃、冲激、单位样值、离散阶跃和斜变信号的定义、性质和图像表达。
